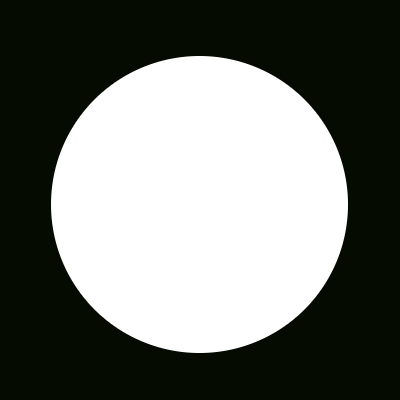
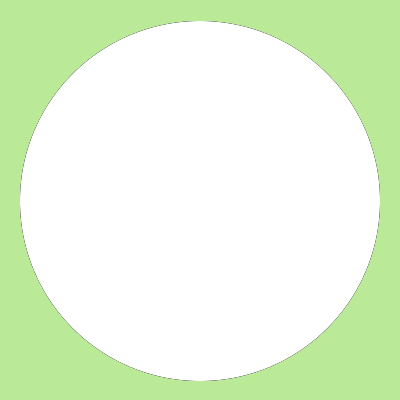
Rolling the ball

diff --git a/js/main.js b/js/main.js
@@ -6,18 +6,62 @@ function main() {
     var ball = gamejs.image.load('images/ball.png');
     var bg = gamejs.image.load('images/bg.png');
     var bgPosition = [0, 0];
-    var unitPosition = [90, 90];
+    
+    // 180 positions
+    var ballPositions = [
+            [180.00,20.00],[196.72,20.88],[213.27,23.50],[229.44,27.83],[245.08,33.83],
+            [260.00,41.44],[274.05,50.56],[287.06,61.10],[298.90,72.94],[309.44,85.95],
+            [318.56,100.00],[326.17,114.92],[332.17,130.56],[336.50,146.73],[339.12,163.28],
+            [340.00,180.00],[339.12,196.72],[336.50,213.27],[332.17,229.44],[326.17,245.08],
+            [318.56,260.00],[309.44,274.05],[298.90,287.06],[287.06,298.90],[274.05,309.44],
+            [260.00,318.56],[245.08,326.17],[229.44,332.17],[213.27,336.50],[196.72,339.12],
+            [180.00,340.00],[163.28,339.12],[146.73,336.50],[130.56,332.17],[114.92,326.17],
+            [100.00,318.56],[85.95,309.44],[72.94,298.90],[61.10,287.06],[50.56,274.05],
+            [41.44,260.00],[33.83,245.08],[27.83,229.44],[23.50,213.27],[20.88,196.72],
+            [20.00,180.00],[20.88,163.28],[23.50,146.73],[27.83,130.56],[33.83,114.92],
+            [41.44,100.00],[50.56,85.95],[61.10,72.94],[72.94,61.10],[85.95,50.56],
+            [100.00,41.44],[114.92,33.83],[130.56,27.83],[146.73,23.50],[163.28,20.88],
+            [180.00,20.00],[196.72,20.88],[213.27,23.50],[229.44,27.83],[245.08,33.83],
+            [260.00,41.44],[274.05,50.56],[287.06,61.10],[298.90,72.94],[309.44,85.95],
+            [318.56,100.00],[326.17,114.92],[332.17,130.56],[336.50,146.73],[339.12,163.28],
+            [340.00,180.00],[339.12,196.72],[336.50,213.27],[332.17,229.44],[326.17,245.08],
+            [318.56,260.00],[309.44,274.05],[298.90,287.06],[287.06,298.90],[274.05,309.44],
+            [260.00,318.56],[245.08,326.17],[229.44,332.17],[213.27,336.50],[196.72,339.12],
+            [180.00,340.00],[163.28,339.12],[146.73,336.50],[130.56,332.17],[114.92,326.17],
+            [100.00,318.56],[85.95,309.44],[72.94,298.90],[61.10,287.06],[50.56,274.05],
+            [41.44,260.00],[33.83,245.08],[27.83,229.44],[23.50,213.27],[20.88,196.72],
+            [20.00,180.00],[20.88,163.28],[23.50,146.73],[27.83,130.56],[33.83,114.92],
+            [41.44,100.00],[50.56,85.95],[61.10,72.94],[72.94,61.10],[85.95,50.56],
+            [100.00,41.44],[114.92,33.83],[130.56,27.83],[146.73,23.50],[163.28,20.88],
+            [180.00,20.00],[196.72,20.88],[213.27,23.50],[229.44,27.83],[245.08,33.83],
+            [260.00,41.44],[274.05,50.56],[287.06,61.10],[298.90,72.94],[309.44,85.95],
+            [318.56,100.00],[326.17,114.92],[332.17,130.56],[336.50,146.73],[339.12,163.28],
+            [340.00,180.00],[339.12,196.72],[336.50,213.27],[332.17,229.44],[326.17,245.08],
+            [318.56,260.00],[309.44,274.05],[298.90,287.06],[287.06,298.90],[274.05,309.44],
+            [260.00,318.56],[245.08,326.17],[229.44,332.17],[213.27,336.50],[196.72,339.12],
+            [180.00,340.00],[163.28,339.12],[146.73,336.50],[130.56,332.17],[114.92,326.17],
+            [100.00,318.56],[85.95,309.44],[72.94,298.90],[61.10,287.06],[50.56,274.05],
+            [41.44,260.00],[33.83,245.08],[27.83,229.44],[23.50,213.27],[20.88,196.72],
+            [20.00,180.00],[20.88,163.28],[23.50,146.73],[27.83,130.56],[33.83,114.92],
+            [41.44,100.00],[50.56,85.95],[61.10,72.94],[72.94,61.10],[85.95,50.56],
+            [100.00,41.44],[114.92,33.83],[130.56,27.83],[146.73,23.50],[163.28,20.88]];
+            //[[20, 180], [180, 340], [340, 180], [180, 20]];
  
     gamejs.onEvent(function() {
         // event handling
     });
 
-    gamejs.onTick(function() {
-        // game loop
+    var pos = 0;
+    gamejs.onTick(function(msDuration) {
+        // game loop 
+        pos += msDuration * 0.02;
+        if (pos >= 180)
+            pos = 0;
+
       display.clear();
       display.blit(bg, bgPosition);
-      display.blit(ball, unitPosition);
-      
+      var index = Math.floor(pos);
+      display.blit(ball, ballPositions[index]);
     });
 }
 
